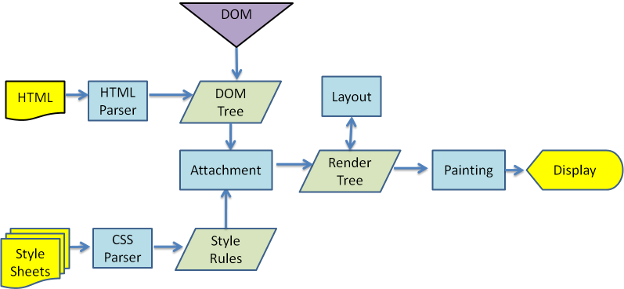
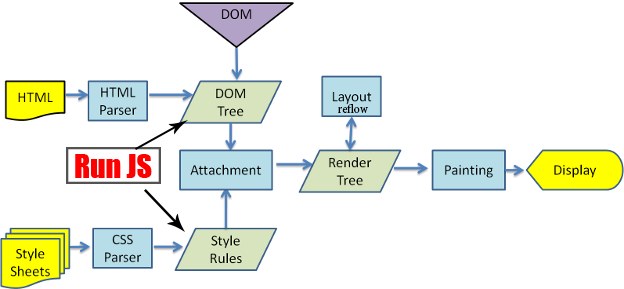
how browser work

diff --git a/assets/css/style.css b/assets/css/style.css
@@ -57,6 +57,12 @@
 .markdown-section h3 {
   font-size: 1.25rem;
 }
+.markdown-section h4 {
+  font-size: 1.1rem;
+}
+.markdown-section h5 {
+  font-size: 1rem;
+}
 .markdown-section pre > code {
   padding: 1.2em 5px;
 }

diff --git a/browser/how-browsers-work.md b/browser/how-browsers-work.md
@@ -1,12 +1,21 @@
 # 浏览器是如何工作的
 
+参考：
+- [how browsers work](https://www.html5rocks.com/zh/tutorials/internals/howbrowserswork)
+- [认识 V8 引擎](https://zhuanlan.zhihu.com/p/27628685)
+- [理解关键渲染路径](https://wufenfen.github.io/2017/03/13/%E3%80%90%E8%AF%91%E3%80%91%E7%90%86%E8%A7%A3%E5%85%B3%E9%94%AE%E6%B8%B2%E6%9F%93%E8%B7%AF%E5%BE%84/)
+- [critical-rendering-path](https://developers.google.com/web/fundamentals/performance/critical-rendering-path/)
+- [DOM操作成本到底高在哪儿？](https://juejin.im/post/5c1069a16fb9a049e0632fb6)
+- [无线性能优化：Composite](http://taobaofed.org/blog/2016/04/25/performance-composite/)
+- [详谈层合成（composite）](https://juejin.im/entry/59dc9aedf265da43200232f9)
+
 ## 浏览器结构
 
 浏览器主要有下面几个部分：
 
 1. **The user interface（用户界面）**：包括地址栏、前进/后退按钮、书签菜单等。除了浏览器主窗口显示的您请求的页面外，其他显示的各个部分都属于用户界面。
-2. **The browser engine（浏览器引擎）**；在用户界面和呈现引擎之间传送指令。
-3. **The rendering engine（呈现引擎）**： 负责显示请求的内容。如果请求的内容是 HTML，它就负责解析 HTML 和 CSS 内容，并将解析后的内容显示在屏幕上。
+2. **The browser engine（浏览器引擎）**；在用户界面和渲染引擎之间传送指令。
+3. **The rendering engine（渲染引擎）**： 负责显示请求的内容。如果请求的内容是 HTML，它就负责解析 HTML 和 CSS 内容，并将解析后的内容显示在屏幕上。
 4. **Networking（网络）**：用于网络调用，比如 HTTP 请求。其接口与平台无关，并为所有平台提供底层实现。
 5. **UI backend（用户界面后端）**：用于绘制基本的窗口小部件，比如组合框和窗口。其公开了与平台无关的通用接口，而在底层使用操作系统的用户界面方法。
 6. **JavaScript interpreter（JavaScript 解释器）**：用于解析和执行 JavaScript 代码。
@@ -14,25 +23,283 @@
 
 ![](img/browser-components.png)
 
-Chrome 浏览器的每个标签页都分别对应一个呈现引擎实例。每个标签页都是一个独立的进程。
+Chrome 浏览器的每个标签页都分别对应一个渲染引擎实例。每个标签页都是一个独立的进程。
 
 ## 网络
 
-当从用户界面上输入URL之后首先会经过网络层获取文档内容
+当从用户界面上输入URL之后首先会经过网络层去获取文档内容
 
-## 呈现引擎
+## 渲染引擎
 
-呈现引擎拿到内容后，开始渲染步骤
+渲染引擎的主要作用是将资源文件转化为用户可见的结果，能够将HTML/CSS/JavaScript文本及相应的资源文件转换成图像结果。
 
-1. 解析HTML，构建DOM树
-2. 解析CSS，生成CSS规则树
+下面是WebKit的大致结构：
+
+![](img/webkit-engine.png)
+
+图中实线框 `WebCore` 是各个浏览器使用的共享部分，包括HTML解析器、CSS解析器、DOM和SVG等。JavaScriptCore是WebKit的默认引擎，在谷歌系列产品中被替换为V8引擎。虚线框是WebKit中的非共享部分,不同的厂商可以自己实现。
+
+渲染引擎拿到网络资源后会经过下列渲染步骤
+
+1. 解析HTML，构建 DOM 树
+2. 解析CSS，生成 CSSOM 规则树
 3. 过程中会遇到脚本执行而阻塞DOM建立以及修改CSS规则
-4. 合并DOM树和CSS规则树，生成render树
-5. 布局render树（Layout/reflow），负责各元素尺寸、位置的计算，为每个节点分配一个应出现在屏幕上的确切坐标。
+4. 合并 DOM 树和 CSSOM 规则树，生成render树
+5. 布局render树（Layout/reflow），负责各元素尺寸、位置的几何计算，为每个节点分配一个应出现在屏幕上的确切坐标。
 6. 绘制render树（paint），由UI backend绘制页面像素信息
 7. 浏览器会将各层的信息发送给GPU，GPU会将各层合成（composite），显示在屏幕上
 
-主要流程：
 ![](img/webkitflow.png)
 
-需要着重指出的是，这是一个渐进的过程。为达到更好的用户体验，呈现引擎会力求尽快将内容显示在屏幕上。它不必等到整个 HTML 文档解析完，就会开始构建呈现树和设置布局。在不断接收和处理来自网络的其余内容的同时，呈现引擎会流式的将部分内容解析并显示出来。
+需要着重指出的是，这是一个渐进的过程。为达到更好的用户体验，渲染引擎会力求尽快将内容显示在屏幕上。它不必等到整个 HTML 文档解析完，就会开始构建呈现树和设置布局。在不断接收和处理来自网络的其余内容的同时，渲染引擎会流式的将部分内容解析并显示出来。
+
+### 构建DOM树
+
+HTML 属于非与上下文无关的语法，所以常规解析器都不适用于 HTML。原因在于：
+
+1. 语言的宽容本质。
+2. 浏览器历来对一些常见的无效 HTML 用法采取包容态度。
+3. 解析过程需要不断地反复。源内容在解析过程中通常不会改变，但是在 HTML 中，脚本标记如果包含 document.write，就会添加额外的标记，这样解析过程实际上就更改了输入内容。
+
+由于不能使用常规的解析技术，浏览器就创建了自定义的解析器来解析 HTML。[HTML5 规范详细地描述了解析算法](http://www.whatwg.org/specs/web-apps/current-work/multipage/parsing.html)，主要分两个阶段组成：标记化和树构建，最终生成DOM树。
+
+DOM（Document Object Model文档对象模型）树是 HTML 文档的对象表示，是由 DOM 元素和属性节点构成的树结构。解析树的根节点是“Document”对象。
+
+无论是DOM还是CSSOM，都是要经过`Bytes → characters → tokens → nodes → object model`这个标记化的词法解析过程。举例：
+
+```html
+<!DOCTYPE html>
+<html>
+  <head>
+    <meta name="viewport" content="width=device-width,initial-scale=1">
+    <link href="style.css" rel="stylesheet">
+    <title>Critical Path</title>
+  </head>
+  <body>
+    <p>Hello <span>web performance</span> students!</p>
+    <div><img src="awesome-photo.jpg"></div>
+  </body>
+</html>
+```
+
+词法解析建立DOM树
+
+![](img/full-process.png)
+
+列举其中的一些重点过程：
+1. Conversion转换：浏览器将获得的HTML内容（Bytes）基于他的编码转换为单个字符
+2. Tokenizing分词：浏览器按照HTML规范标准将这些字符转换为不同的标记token。每个token都有自己独特的含义以及规则集
+3. Lexing词法分析：分词的结果是得到一堆的token，此时把他们转换为对象，这些对象分别定义他们的属性和规则
+4. DOM构建：因为HTML标记定义的就是不同标签之间的关系，这个关系就像是一个树形结构一样。
+
+HTML可以部分执行并显示，也就是说，浏览器并不需要等待整个HTML全部解析完毕才开始显示页面。但是，其他的资源有可能阻塞页面的渲染，比如CSS，JavaScript等。
+
+### 构建CSSOM树
+
+CSSOM（CSS对象模型）树是对附在DOM结构上的样式的一种表示方式。它与DOM树的呈现方式相似，只是每个节点都带上样式 ，包括明确定义的和隐式继承的。
+
+在文档的 head 部分遇到了一个 link 标记，该标记引用一个外部 CSS 样式表：style.css，如下
+
+```css
+body { font-size: 16px }
+p { font-weight: bold }
+span { color: red }
+p span { display: none }
+img { float: right }
+```
+
+词法解析
+
+![](img/cssom-construction.png ':size=700')
+
+会生成以下的CSSOM树
+
+![](img/cssom-tree.png)
+
+**CSS是一种渲染阻塞资源(render blocking resource)**，它需要完全被解析完毕之后才能进入生成渲染树的环节。CSS并不像HTML那样能执行部分并显示，因为CSS具有继承属性， 后面定义的样式会覆盖或者修改前面的样式。所以，我们只能等待CSS完全解析之后，才能进入关键渲染路径的下一环节。
+
+因为JavaScript脚本的执行必须等到CSSOM生成之后，所以说CSS也会**阻塞脚本(script blocking)**。
+
+### 执行JavaScript
+
+JavaScript是一种解析**阻塞资源(parser blocking resource)**，它能阻塞HTML页面的解析。
+
+当页面解析到`<script>`标签，不管脚本是內联的还是外联，页面解析都会暂停，转而加载JavaScript文件（外联的话）并且执行JavaScript。
+
+为了避免JavaScript文件下载阻塞页面的解析，我们可以在`<script>`标签上添加async或者defer属性，使得JavaScript文件异步加载。(下载并行，但执行仍会阻塞)
+
+```html
+<script async src="script.js"> <!-- 异步下载完立即执行，但下载时间不定所有一定onload之前，不确定DOMContentLoaded前后 -->
+<script defer src="script.js"> <!-- 异步下载, DOM、CSSOM构建之后，DOMContentLoaded事件之前，再执行 -->
+```
+
+JavaScript引擎的执行过程大致是：
+
+源代码 → 抽象语法树 → 字节码 → JIT → 本地代码(V8引擎没有中间字节码)。一段代码的抽象语法树示例如下
+
+```js
+function demo(name) {
+    console.log(name);
+}
+```
+
+```json
+{
+  "type": "Program",
+  "start": 0,
+  "end": 46,
+  "body": [
+    {
+      "type": "FunctionDeclaration",
+      "start": 0,
+      "end": 46,
+      "id": { "type": "Identifier", "start": 9, "end": 13, "name": "demo" },
+      "expression": false,
+      "generator": false,
+      "params": [{ "type": "Identifier", "start": 14, "end": 18, "name": "name" }],
+      "body": {
+        "type": "BlockStatement",
+        "start": 20,
+        "end": 46,
+        "body": [
+          {
+            "type": "ExpressionStatement",
+            "start": 26,
+            "end": 44,
+            "expression": {
+              "type": "CallExpression",
+              "start": 26,
+              "end": 43,
+              "callee": {
+                "type": "MemberExpression",
+                "start": 26,
+                "end": 37,
+                "object": { "type": "Identifier", "start": 26, "end": 33, "name": "console" },
+                "property": { "type": "Identifier", "start": 34, "end": 37, "name": "log" },
+                "computed": false
+              },
+              "arguments": [{ "type": "Identifier", "start": 38, "end": 42, "name": "name" }]
+            }
+          }
+        ]
+      }
+    }
+  ],
+  "sourceType": "module"
+}
+```
+
+![](img/js-engine.png)
+
+
+### 生成渲染树
+
+DOM 树与 CSSOM 树合并后形成渲染树，包含网页上所有`可见的` DOM 内容，以及每个节点的所有 CSSOM 样式信息。
+
+![](img/render-tree-construction.png)
+
+- 某些节点不可见（例如 head 部分、 脚本标记等），因为它们不会体现在渲染输出中，所以会被忽略
+- 某些节点通过 CSS 隐藏，设置了“display: none”属性，因此在渲染树中也会被忽略
+
+### 布局
+
+布局决定了视口的大小，为CSS样式提供了依据，比如百分比的换算或者视口的总像素值。视口大小是由meta标签的name属性为viewport的内容设置所决定的，如果缺少这个标签，默认的视口大小为980px。
+
+最常见的viewport设置是自适应于设备尺寸，设置如下：
+
+```html
+<meta name="viewport" content="width=device-width,initial-scale=1">
+```
+
+为弄清每个对象在网页上的确切大小和位置，浏览器从渲染树的根节点开始进行遍历。让我们考虑下面这样一个简单的实例：
+
+```html
+<!DOCTYPE html>
+<html>
+  <head>
+    <meta name="viewport" content="width=device-width,initial-scale=1">
+    <title>Critial Path: Hello world!</title>
+  </head>
+  <body>
+    <div style="width: 50%">
+      <div style="width: 50%">Hello world!</div>
+    </div>
+  </body>
+</html>
+```
+
+以上网页的正文包含两个嵌套 div：第一个（父）div 将节点的显示尺寸设置为视口宽度的 50%，第二个嵌套 div 将其宽度设置为其父项的 50%，即视口宽度的 25%。
+
+![](img/layout-viewport.png)
+
+布局流程的输出是一个**“盒模型”**，它会精确地捕获每个元素在视口内的确切位置和尺寸：所有相对测量值都转换为屏幕上的绝对像素。
+
+### 绘制
+
+至此我们知道了哪些节点可见、它们的计算样式以及几何信息，我们就可以将渲染树中的每个节点通过GPU转换成屏幕上的实际像素，叫做paint绘制。
+
+绘制过程所需要花费的时间取决于DOM的大小以及元素的CSS样式。有些样式比较耗时，比如一个复杂的渐变背景色比起简单的单色背景需要更多的时间来渲染。
+
+### 合成
+
+上述中的渲染中止步于绘制，但实际上绘制这一步也没有这么简单，它可以结合渲染层和合成层的概念来讲。
+
+通俗来说：在 DOM 树中每个节点都会对应一个 LayoutObject，当他们的 LayoutObject 处于相同的坐标空间时，就会形成一个 RenderLayers ，也就是渲染层。
+RenderLayers 来保证页面元素以正确的顺序合成，这时候就会出现层合成（composite），从而正确处理透明元素和重叠元素的显示。
+
+![](img/composite.jpg)
+
+- 可以认为默认只有一个渲染图层，所有的DOM节点都是在这个渲染图层下的
+- 如果开启了硬件加速功能，可以将某个节点变成合成层
+- 合成层之间的绘制互不干扰，由GPU直接控制
+- 而普通渲染图层中，就算是absolute等布局，变化时不影响整体的回流，但是由于在同一个图层中，仍然是会影响绘制的，因此做动画时性能仍然很低。而合成层是独立的，所以一般做动画推荐使用硬件加速
+
+那么影响 composite 的因素有哪些？
+
+1. 3D transforms: translate3d, translateZ 等;
+2. video, canvas, iframe 等元素;
+3. 通过 Element.animate() 实现的 opacity 动画转换;
+4. 通过 СSS 动画实现的 opacity 动画转换;
+5. position: fixed;
+6. will-change;
+7. filter;
+8. 有合成层后代同时本身 overflow 不为 visible（如果本身是因为明确的定位因素产生的 SelfPaintingLayer，则需要 z-index 不为 auto）
+等等…
+
+### reflow和repaint
+
+reflow(回流): 根据Render Tree布局(几何属性)，意味着元素的内容、结构、位置或尺寸发生了变化，需要重新计算样式和渲染树；
+
+repaint(重绘): 意味着元素发生的改变只影响了节点的一些样式（背景色，边框颜色，文字颜色等），只需要应用新样式绘制这个元素就可以了；
+
+reflow回流的成本开销要高于repaint重绘，一个节点的回流往往回导致子节点以及同级节点的回流；
+
+#### 引起reflow回流
+
+现代浏览器会对回流做优化，它会等到足够数量的变化发生，再做一次批处理回流。
+
+1. 页面第一次渲染（初始化）
+2. DOM树变化（如：增删节点）
+3. Render树变化（如：padding改变）
+4. 浏览器窗口resize
+5. 获取元素的某些属性：
+6. 浏览器为了获得正确的值也会提前触发回流，这样就使得浏览器的优化失效了，这些属性包括offsetLeft、offsetTop、offsetWidth、offsetHeight、 scrollTop/Left/Width/Height、clientTop/Left/Width/Height、调用了getComputedStyle()或者IE的currentStyle
+
+#### 引起repaint重绘
+
+1. reflow回流必定引起repaint重绘，重绘可以单独触发
+2. 背景色、颜色、字体改变（注意：字体大小发生变化时，会触发回流）
+
+#### 优化reflow、repaint触发次数
+
+1. 避免逐个修改节点样式，尽量一次性修改
+2. 使用DocumentFragment将需要多次修改的DOM元素缓存，最后一次性append到真实DOM中渲染
+3. 可以将需要多次修改的DOM元素设置display: none，操作完再显示。（因为隐藏元素不在render树内，因此修改隐藏元素不会触发回流重绘）
+4. 避免多次读取某些属性（见上）
+5. 将复杂的节点元素脱离文档流，降低回流成本
+
+通过查看Chrome DevTools -> Performance -> Event log选项，我们可以看到如下结果：
+
+![](img/timeline.png)
+![](img/devt1.jpeg)
+![](img/devt2.jpeg)

diff --git a/_sidebar.md b/_sidebar.md
@@ -5,8 +5,8 @@
     - [ECMA](standard-specification/standard-organization/ecma.md)
     - [TC39](standard-specification/standard-organization/tc39.md)
   - [编码规范](standard-specification/code-style/README.md)
-  - [ESLint](standard-specification/eslint.md)
-  - [Prettier](standard-specification/prettier.md)
+    - [ESLint](standard-specification/eslint.md)
+    - [Prettier](standard-specification/prettier.md)
 - [语言基础](basic/README.md)
   - [HTML](basic/html/README.md)
     - [手册](basic/html/handbook.md)
@@ -58,6 +58,7 @@
   - [跨域](security/cross-domain.md)
 - [浏览器](browser/README.md)
   - [how browser work](browser/how-browsers-work.md)
+  - [Chrome DevTools](browser/chrome-devtools.md)
 - [适配](adapter/README.md)
 - [可视化](graphic/README.md)
   - [canvas](graphic/canvas.md)

diff --git a/browser/chrome-devtools.md b/browser/chrome-devtools.md
@@ -1,0 +1,5 @@
+# Chrome DevTools
+
+参考
+
+- [官方文档](https://developers.google.com/web/tools/chrome-devtools/?hl=zh-cn)
